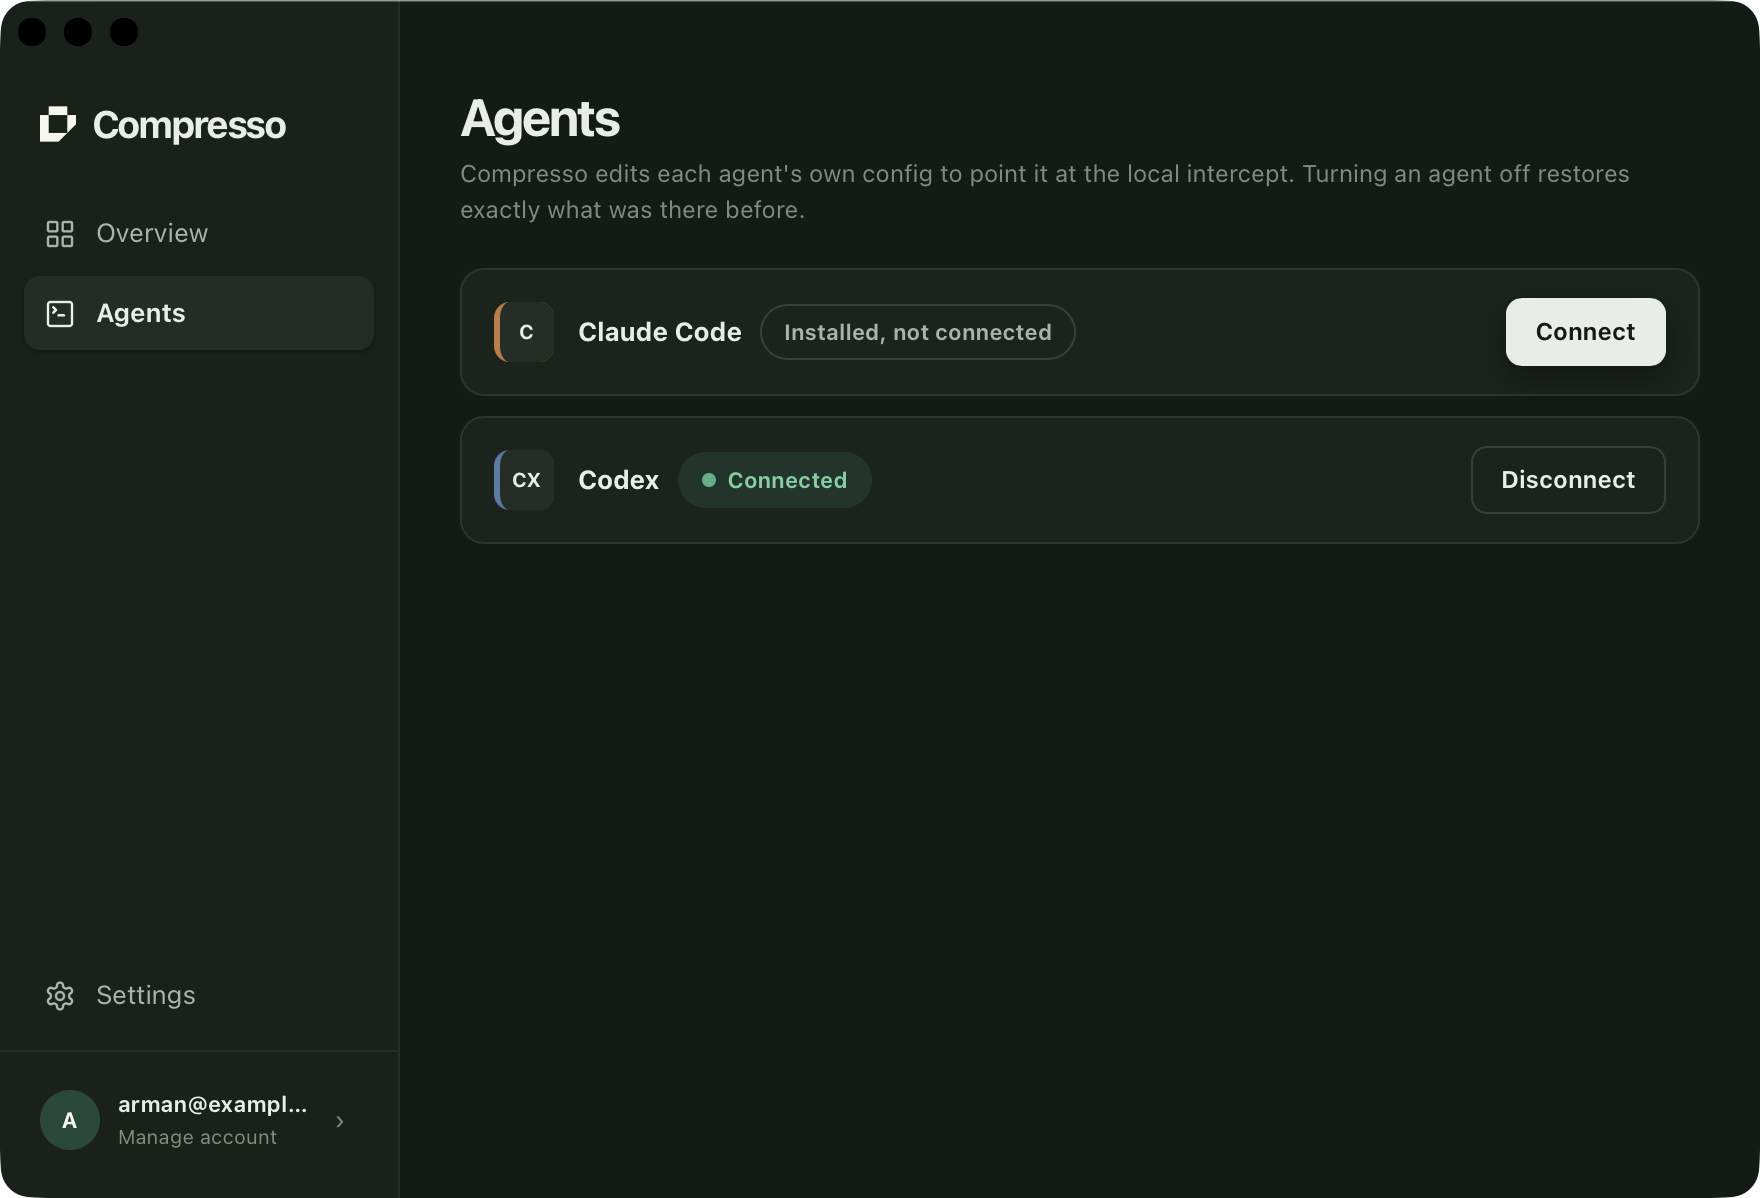
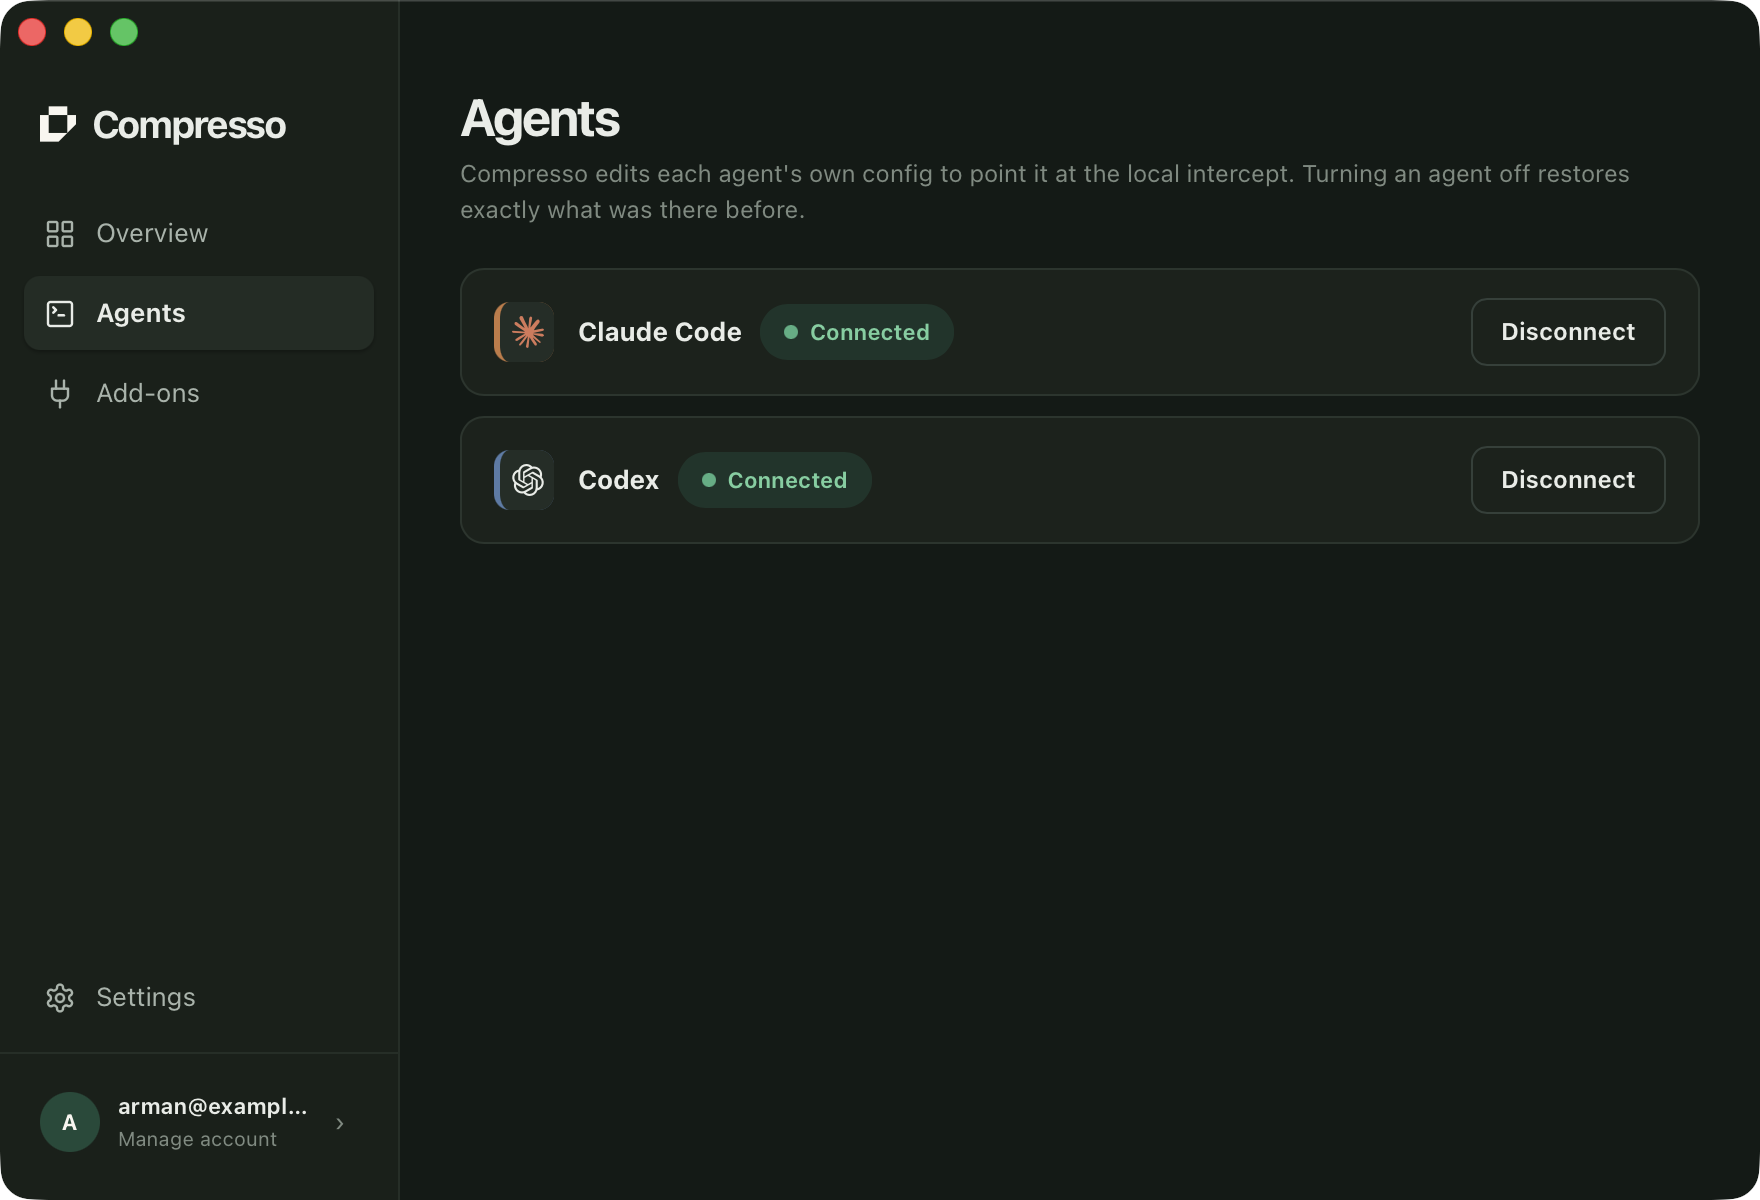
docs: recapture the app screenshots
The existing pair was from 16 August, before the Add-ons page existed, so its
sidebar shows two nav items. These are fresh captures of the built app at the
same size, plus the add-ons screen.

The agents alt text described a screen that no longer exists: it named Claude
Code as installed but not connected, and both agents are connected now.

diff --git a/README.md b/README.md
@@ -107,7 +107,7 @@ Every tier includes everything, up to 2 Macs per account. Yearly billing and an 
 
 <picture>
   <source media="(prefers-color-scheme: dark)" srcset="docs/app-agents-dark.png">
-  <img alt="The Compresso agents screen: Claude Code listed as installed but not connected with a Connect button, and Codex listed as connected with a Disconnect button." src="docs/app-agents-light.png">
+  <img alt="The Compresso agents screen: Claude Code and Codex each listed as Connected, with a Disconnect button beside them." src="docs/app-agents-light.png">
 </picture>
 
 ## Questions
